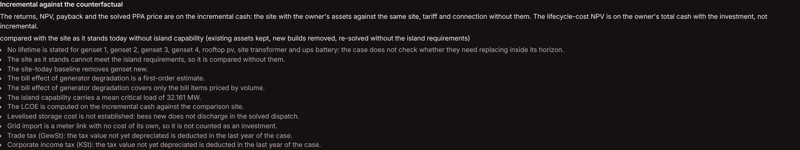
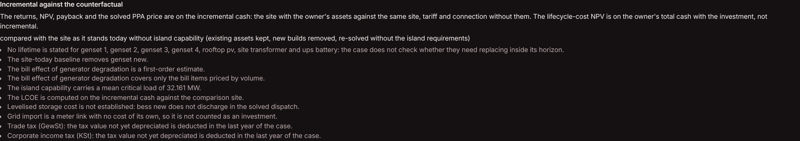
fix(gui): the island-relaxed baseline is said once, by the counterfactual notes (IBA-02, GK F1)
statedFlags skips baseline_island_rows_relaxed when counterfactual.notes
are served; a backend contract test pins that report.py serves its
sentence there. LCOS reason keys are held to lcos.py's list as an exact
set; the lifetime list reuses businessCaseModel.listWords. Issue 10 files
the three master-side double wordings.

Claude-Session: https://claude.ai/code/session_01G7qCujmSsdXGttJBJUPEG9

Changed region(s): [[0.0, 0.0851, 0.9688, 0.9645], [0.0, 0.0, 0.1562, 0.0567]]

diff --git a/pypsa-gui/frontend/src/pages/results/investment/financeModel.test.ts b/pypsa-gui/frontend/src/pages/results/investment/financeModel.test.ts
@@ -1,7 +1,7 @@
 // The finance form and report mappings (IC P4 WP4.7a/b), without a DOM.
 import { describe, expect, it } from 'vitest'
 import {
-  assetLabel, projectFlagLines, projectFlagWords, PROJECT_FLAG_KEYS, statedFlags, UNDESCRIBED_FLAG, UNDESCRIBED_REASON,
+  assetLabel, projectFlagLines, projectFlagWords, PROJECT_FLAG_KEYS, LCOS_REASON_KEYS, statedFlags, UNDESCRIBED_FLAG, UNDESCRIBED_REASON,
   baselineCaveats, basisStatement, cashflowPivot, cashTotals, counterfactualStatement, errorKey, errorsFor, established, financeErrors, fmtCell,
   fmtHeadline, headlines, numOrNull, parseRateOrList, perYearLists, progressFraction, progressText,
   rateOrListText, studyProgress, studyStale, toTable, waccGate, withKey,
@@ -374,7 +374,8 @@ const DC_FLAGS = [
 ]
 const SNAKE = /\b[a-z]+(?:_[a-z0-9]+)+\b/
 const siteToday = { sections: { project: { status: 'ok', payload: {
-  flags: DC_FLAGS, counterfactual: { basis: 'compared with the site as it stands today', counterfactual_basis: 'site_today' } } } } } as never
+  flags: DC_FLAGS, counterfactual: { basis: 'compared with the site as it stands today', counterfactual_basis: 'site_today',
+    notes: ['The site as it stands cannot meet the island requirements without the new builds, so it is compared without them.'] } } } } } as never
 
 describe('the data-centre case flags in plain words (IBA-02)', () => {
   it('words every flag the data-centre case emits, with no raw code left', () => {
@@ -382,7 +383,6 @@ describe('the data-centre case flags in plain words (IBA-02)', () => {
     expect(out).toEqual([
       'No lifetime is stated for genset 1, genset 2, genset 3, genset 4, rooftop pv, site transformer and ups battery: '
         + 'the case does not check whether they need replacing inside its horizon.',
-      'The site as it stands cannot meet the island requirements, so it is compared without them.',
       'The site-today baseline removes genset new.',
       'The bill effect of generator degradation is a first-order estimate.',
       'The bill effect of generator degradation covers only the bill items priced by volume.',
@@ -404,7 +404,7 @@ describe('the data-centre case flags in plain words (IBA-02)', () => {
       'State: the tax value not yet depreciated is deducted in the last year of the case.'])
   })
   it('skips the site-today basis only when the counterfactual sentence states it', () => {
-    expect(statedFlags(siteToday)).toEqual(new Set(['counterfactual_basis:site_today']))
+    expect(statedFlags(siteToday)).toEqual(new Set(['counterfactual_basis:site_today', 'baseline_island_rows_relaxed']))
     expect(projectFlagWords(['counterfactual_basis:site_today'], statedFlags(siteToday))).toEqual([])
     // No stated basis: the flag stays, as a line.
     expect(projectFlagWords(['counterfactual_basis:site_today'])).toEqual([UNDESCRIBED_FLAG])
@@ -418,7 +418,7 @@ describe('the data-centre case flags in plain words (IBA-02)', () => {
   it('keeps the handled flag keys and projectFlagKeys.json the same set', () => {
     expect(new Set(projectFlagKeys.worded)).toEqual(PROJECT_FLAG_KEYS)
     expect(projectFlagKeys.worded).toHaveLength(PROJECT_FLAG_KEYS.size)
-    expect(projectFlagKeys.stated).toEqual(['counterfactual_basis:site_today'])
+    expect(projectFlagKeys.stated).toEqual(['baseline_island_rows_relaxed', 'counterfactual_basis:site_today'])
   })
 })
 
@@ -456,5 +456,31 @@ describe('a code with no words stays out of the text, in the title (UX rule c, G
       .find(h => h.id === 'lcos_real')!
     expect(odd.note).toBe(`${UNDESCRIBED_REASON}; ${UNDESCRIBED_REASON}`)
     expect(odd.noteCode).toBe('brand_new_reason:b; real_not_established:cpi_gone')
+  })
+})
+
+describe('the island-relaxed baseline is said once, by the counterfactual notes (GK F1)', () => {
+  const withNotes = (notes: string[]) => ({ sections: { project: { status: 'ok', payload: {
+    counterfactual: { basis: 'compared with the site as it stands today', counterfactual_basis: 'site_today', notes } } } } }) as never
+  it('leaves the flag out when the notes are served', () => {
+    expect(projectFlagWords(['baseline_island_rows_relaxed'], statedFlags(withNotes(['The site as it stands cannot …'])))).toEqual([])
+  })
+  it('keeps it, as an undescribed line with its code, when no notes are served', () => {
+    expect(statedFlags(withNotes([]))).toEqual(new Set(['counterfactual_basis:site_today']))
+    expect(projectFlagLines(['baseline_island_rows_relaxed'], statedFlags(withNotes([]))))
+      .toEqual([{ text: UNDESCRIBED_FLAG, code: 'baseline_island_rows_relaxed' }])
+  })
+})
+
+describe('the LCOS reason words cover what lcos.py emits (GK, exact set)', () => {
+  it('words exactly the reason kinds lcos.py gives, listed by hand from lcos.py', () => {
+    // lcos.py: 116 wacc_nominal_missing, 122 degradation_missing, 140 charging_cost_not_established,
+    // 149/186 escalation_missing, 156 om_not_established, 162 capex_not_established, 164 overnight_cost_missing,
+    // 182 terminal_needs_part_lifetimes, 183 terminal_part_unknown, 186 terminal_needs_lp_rate,
+    // 200 no_discharge, 218 real_not_established.
+    expect(LCOS_REASON_KEYS).toEqual(new Set(['wacc_nominal_missing', 'degradation_missing',
+      'charging_cost_not_established', 'escalation_missing', 'om_not_established', 'capex_not_established',
+      'overnight_cost_missing', 'terminal_needs_part_lifetimes', 'terminal_part_unknown', 'terminal_needs_lp_rate',
+      'no_discharge', 'real_not_established']))
   })
 })

diff --git a/pypsa-gui/frontend/src/pages/results/investment/financeModel.ts b/pypsa-gui/frontend/src/pages/results/investment/financeModel.ts
@@ -6,6 +6,7 @@
 // without edits PUTs exactly what was read. An empty input is `null` / absent —
 // "not stated" (plan C12) — never 0. The server judges every combination; its
 // 422 is mapped to the field it names (the WP3.7 pattern).
+import { listWords } from './businessCaseModel'
 import type {
   CashflowLine, FinanceInputs, InvestmentCaseReportPayload, InvestmentCaseStudy, IcSectionState,
 } from '../../../api/types'
@@ -299,6 +300,9 @@ const LCOS_REASON_WORDS: Record<string, (tail: string) => string> = {
   no_discharge: v => `${assetLabel(v)} does not discharge in the solved dispatch`,
   real_not_established: v => v === 'inflation_missing' ? 'the real figure needs an inflation rate' : UNDESCRIBED_REASON,
 }
+
+/** The LCOS reasons that have words (a test holds them to lcos.py's list, written out by hand). */
+export const LCOS_REASON_KEYS: ReadonlySet<string> = new Set(Object.keys(LCOS_REASON_WORDS))
 
 /** One LCOS reason in words; one with none says so, and its code stays in the row's title. */
 function lcosReasonWords(reason: string): string {
@@ -840,7 +844,6 @@ const PROJECT_FLAG_WORDS: Record<string, (tail: string) => string> = {
   ledger_conservation_not_established: () => 'Whether the cash ledger balances is not established.',
   extra_asset_money_year_unstated: () => 'No case money year is stated to compare with the additional equipment costs.',
   // IBA-02: the flags a data-centre case emits (finance_case.py, engine.py, tax.py, lcos.py).
-  baseline_island_rows_relaxed: () => 'The site as it stands cannot meet the island requirements, so it is compared without them.',
   degradation_bill_first_order: () => 'The bill effect of generator degradation is a first-order estimate.',
   degradation_bill_volume_items_only: () => 'The bill effect of generator degradation covers only the bill items priced by volume.',
   island_critical_load_mw: v => `The island capability carries a mean critical load of ${v} MW.`,
@@ -867,10 +870,17 @@ export const PROJECT_FLAG_KEYS: ReadonlySet<string> = new Set([
   LIFE_ENDS.slice(0, -1), NOT_REPLACED.slice(0, -1), AFTER_HORIZON.slice(0, -1), LIFETIME_UNKNOWN.slice(0, -1),
 ])
 
-/** The flags the report's own sentences already state, so the list leaves them
- *  out: the site-today basis, when the counterfactual sentence is the site-today one. */
+/** The flags the report's own sentences already state, so the list leaves them out:
+ *  - the site-today basis, when the counterfactual sentence is the site-today one;
+ *  - `baseline_island_rows_relaxed`, when the counterfactual notes are served: report.py words
+ *    every case flag through `baseline_text.flag_text` into them, and this one always has words
+ *    (a backend contract test pins it). */
 export function statedFlags(report: InvestmentCaseReportPayload): ReadonlySet<string> {
-  return new Set(counterfactualBasis(report)?.basis === 'site_today' ? ['counterfactual_basis:site_today'] : [])
+  const cf = counterfactualBasis(report)
+  return new Set([
+    ...(cf?.basis === 'site_today' ? ['counterfactual_basis:site_today'] : []),
+    ...(cf && cf.notes.length > 0 ? ['baseline_island_rows_relaxed'] : []),
+  ])
 }
 
 /** The project flag list in words. A campus asset's life-end and later-renewal
@@ -897,8 +907,7 @@ export function projectFlagLines(flags: string[], stated: ReadonlySet<string> = 
       if (lifetimeSaid) return []
       lifetimeSaid = true
       const many = noLifetime.length > 1
-      const names = many ? `${noLifetime.slice(0, -1).join(', ')} and ${noLifetime[noLifetime.length - 1]}` : noLifetime[0]
-      return [line(`No lifetime is stated for ${names}: the case does not check whether ${many ? 'they need' : 'it needs'} `
+      return [line(`No lifetime is stated for ${listWords(noLifetime)}: the case does not check whether ${many ? 'they need' : 'it needs'} `
         + 'replacing inside its horizon.', f)]
     }
     if (f.startsWith(NOT_REPLACED)) {

diff --git a/pypsa-gui/frontend/src/pages/results/investment/businessCaseModel.ts b/pypsa-gui/frontend/src/pages/results/investment/businessCaseModel.ts
@@ -207,7 +207,8 @@ export function volumeRefusal(label: string, pct: number): string | null {
 export const operatingYears = (horizon: [number, number] | null): number[] =>
   yearsOf({} as LineItem, horizon)
 
-const listWords = (xs: string[]) =>
+/** "a", "a and b", "a, b and c". */
+export const listWords = (xs: string[]) =>
   xs.length < 2 ? (xs[0] ?? '') : `${xs.slice(0, -1).join(', ')} and ${xs[xs.length - 1]}`
 const groupWords = (gs: { words: string }[]) => listWords(gs.map(g => g.words))
 

diff --git a/pypsa-gui/backend/tests/test_ic_counterfactual_notes_contract.py b/pypsa-gui/backend/tests/test_ic_counterfactual_notes_contract.py
@@ -1,0 +1,44 @@
+# SPDX-FileCopyrightText: Contributors to PyPSA-Eur <https://github.com/pypsa/pypsa-eur>
+#
+# SPDX-License-Identifier: MIT
+"""Writer → reader contract for the counterfactual notes (IBA-02, GK F1).
+
+The Expert investment view (`financeModel.statedFlags`) leaves
+`baseline_island_rows_relaxed` out of its flag list whenever
+`counterfactual.notes` are served, because report.py words every case flag
+through `baseline_text.flag_text` into those notes. If the report stops
+serving that sentence, this test fails instead of the fact silently leaving
+the screen."""
+
+from __future__ import annotations
+
+from types import SimpleNamespace
+
+from services.finance import report as R
+from services.finance.baseline_text import flag_text
+
+FLAG = "baseline_island_rows_relaxed"
+
+
+def _block(monkeypatch, flags):
+    # The money helpers read a full engine result; the notes do not depend on them.
+    for name in ("_avoided_co2", "_incremental_split", "_lost_product"):
+        monkeypatch.setattr(R, name, lambda *_: None)
+    result = SimpleNamespace(flags=flags, reasons={})
+    template = SimpleNamespace(lines=[], first_year=2030)
+    case = SimpleNamespace(counterfactual=[template], templates=[template], counterfactual_hash=None)
+    return R._counterfactual_block(result, case)
+
+
+def test_a_report_with_the_island_relaxed_flag_serves_its_sentence_in_the_notes(monkeypatch):
+    text = flag_text(FLAG)
+    assert text, "the island-relaxed flag must always have words"
+    block = _block(monkeypatch, ["counterfactual_basis:site_today", FLAG])
+    assert text in block["notes"]
+    # The basis sentence is the site-today one without island capability.
+    assert block["counterfactual_basis"] == "site_today"
+
+
+def test_without_the_flag_its_sentence_is_not_in_the_notes(monkeypatch):
+    block = _block(monkeypatch, ["counterfactual_basis:site_today"])
+    assert flag_text(FLAG) not in block["notes"]

diff --git a/.scratch/walkthroughs/investment-business-case-2026-11-17/issues/10-counterfactual-flags-worded-twice.md b/.scratch/walkthroughs/investment-business-case-2026-11-17/issues/10-counterfactual-flags-worded-twice.md
@@ -1,0 +1,25 @@
+<!-- SPDX-FileCopyrightText: Contributors to PyPSA-Eur <https://github.com/pypsa/pypsa-eur> -->
+<!-- SPDX-License-Identifier: CC-BY-4.0 -->
+
+# 10 — Three counterfactual flags are worded twice on the investment case
+
+Status: needs-triage
+Severity: low (the same fact stated twice, once in a weaker wording)
+Group: Investment and business case. Found by GK B2 (5) in the review of #1935 (issue 02), master 443ec313.
+
+## What
+
+Expert › Results › Commercial & finance › Investment case words these flags twice:
+- in the counterfactual notes (`ic-cf-notes`), from the backend's `services/finance/baseline_text.flag_text`, which report.py serves as `counterfactual.notes`;
+- in the flag list (`ic-project-flags`), from the frontend's `PROJECT_FLAG_WORDS` (financeModel.ts).
+
+The flags:
+- `co2_price_not_applied`
+- `counterfactual_baseline_shed_unknown`
+- `counterfactual_baseline_unserved`
+
+#1935 fixed the same defect for `baseline_island_rows_relaxed`. `statedFlags` leaves it out of the list when the notes are served, and a backend contract test (`tests/test_ic_counterfactual_notes_contract.py`) pins that the notes carry its sentence.
+
+## Expected
+
+Each fact is said once, in the backend's full sentence. Fix it the way #1935 did: drop the three entries from `PROJECT_FLAG_WORDS`, add them to `statedFlags` and to `projectFlagKeys.json` `stated`, and extend the contract test to cover them. First confirm that `flag_text` words each flag for every value it can carry.

diff --git a/.scratch/walkthroughs/investment-business-case-2026-11-17/issues/02-dc-investment-case-no-path-from-template.md b/.scratch/walkthroughs/investment-business-case-2026-11-17/issues/02-dc-investment-case-no-path-from-template.md
@@ -70,3 +70,10 @@ On any template in the group, either the investment case runs from the template'
   - The smoke fails on any "no description yet" text.
   - 19 more mutants (each LCOS word, the inflation word, the unknown-reason fallback, the title code on flag and reason lines, noteCode), all killed.
   - Light and dark shots are under `../shots/iba-02-*`.
+- 2026-11-23 GK NOT OK F1 @99e8a263 addressed:
+  - `baseline_island_rows_relaxed` is dropped from `PROJECT_FLAG_WORDS`. `statedFlags` now skips it whenever `counterfactual.notes` are served, and it is moved to `stated` in projectFlagKeys.json.
+  - The backend contract test `tests/test_ic_counterfactual_notes_contract.py` pins that the notes carry `flag_text(...)`. A mutant that empties report.py's notes is killed.
+  - Frontend tests: skipped when the notes are present, kept (as an undescribed line with its code) when they are absent. The skip mutants are killed.
+  - The LCOS reason keys are checked as an exact set against a list written out by hand from lcos.py.
+  - The lifetime list reuses `listWords`, now exported from businessCaseModel.
+  - Filed 10 for the three master-side double wordings.
